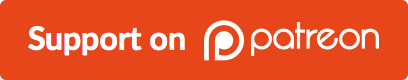
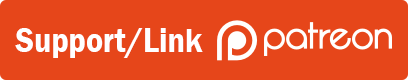
Dont log accessToken, update patreon button to include Support/Link in the image

Changed region(s): [[0.0294, 0.25, 0.9706, 0.775]]

diff --git a/src/main/sentient-sims/controllers/SettingsController.ts b/src/main/sentient-sims/controllers/SettingsController.ts
@@ -1,9 +1,7 @@
 /* eslint-disable import/prefer-default-export */
 import { Request, Response } from 'express';
-import log from 'electron-log';
 import { SettingsService } from '../services/SettingsService';
 import { notifySettingChanged } from '../util/notifyRenderer';
-import { SettingsEnum } from '../models/SettingsEnum';
 
 export class SettingsController {
   private settingsService: SettingsService;
@@ -19,9 +17,6 @@ export class SettingsController {
   async updateSetting(req: Request, res: Response) {
     const { appSetting } = req.params;
     const { value } = req.body;
-    if (appSetting !== SettingsEnum.ACCESS_TOKEN) {
-      log.info(`Setting app setting: ${appSetting}, to value: ${value}`);
-    }
     res.json({ value: this.settingsService.setSetting(appSetting, value) });
     notifySettingChanged(appSetting, value);
   }

diff --git a/src/main/sentient-sims/services/SettingsService.ts b/src/main/sentient-sims/services/SettingsService.ts
@@ -76,7 +76,9 @@ export class SettingsService {
 
   setSetting(key: string, value: any) {
     this.store.set(key, value);
-    log.info(`Setting app setting: ${key} to value: ${value}`);
+    if (key !== SettingsEnum.ACCESS_TOKEN) {
+      log.info(`Setting app setting: ${key} to value: ${value}`);
+    }
     return value;
   }
 
